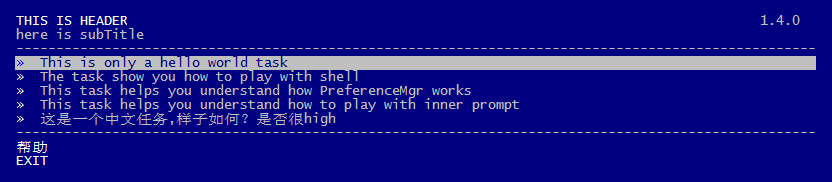
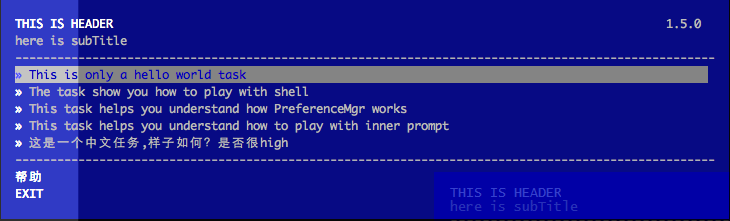
upgrade dependencies with the latest version and do refactor along with the dependency

diff --git a/index.js b/index.js
@@ -74,6 +74,7 @@ var createMenu = function(opts) {
             menu.reset();
             menu.close();
 
+
             if (name === options.exitTxt) {
                 return emitter.emit('exit');
             }
@@ -88,6 +89,7 @@ var createMenu = function(opts) {
 
             runner.on('finish', function() {
                 logger.success('finish: ', task.name);
+                process.stdin.end();
             });
 
             runner.on('error', function(err) {
@@ -97,7 +99,13 @@ var createMenu = function(opts) {
 
         });
 
-        menu.createStream().pipe(process.stdout);
+        process.stdin.pipe(menu.createStream()).pipe(process.stdout);
+        process.stdin.setRawMode(true);
+
+        menu.on('close', function() {
+            process.stdin.setRawMode(false);
+            // process.stdin.end();
+        });
     }).error(function(err) {
         logger.error('failed: ', err);
     });

diff --git a/examples/tasks/prompt/Task.js b/examples/tasks/prompt/Task.js
@@ -1,14 +1,13 @@
+'use strict';
+
 var TaskRunner = require('../../../index');
 var logger = TaskRunner.logger;
-
-
 
 var Task = TaskRunner.Base.extend({
     id: 'prompttest',
     name: 'This task helps you understand how to play with inner prompt',
     position: 4,
     run: function(cons) {
-
         this.prompt([{
             type: 'input',
             name: 'name',
@@ -16,10 +15,15 @@ var Task = TaskRunner.Base.extend({
             validate: function(pass) {
                 return !!pass;
             }
+        }, {
+            type: 'input',
+            name: 'project',
+            message: 'your project',
+            default: 'project'
         }], function(res) {
-                logger.info('Your name is:', res.name);
-                cons();
-            });
+            logger.info('Your input is:', res);
+            cons();
+        });
     }
 });
 

diff --git a/libs/Shell.js b/libs/Shell.js
@@ -13,10 +13,9 @@ var Executor = function(cmds, variables) {
     if (variables) {
         this.commands = [];
         _.each(cmds, function(cmd) {
-            this.push(_.template(cmd, variables));
+            this.push(_.template(cmd)(variables));
         }, this.commands);
     }
-
     this._run = function(defer) {
         var _this = this;
         if (!this.hasNext()) {
@@ -48,12 +47,6 @@ Executor.prototype.next = function() {
         if (error) {
             d.reject(error);
             return;
-        }
-
-        if (!stdout) {
-            console.info(cmd);
-        } else {
-            console.log(stdout);
         }
         d.resolve();
     });

diff --git a/examples/tasks/shellexample/Task.js b/examples/tasks/shellexample/Task.js
@@ -1,18 +1,18 @@
+'use strict';
 var TaskRunner = require('../../../index');
-var logger = TaskRunner.logger;
 var Shell = TaskRunner.shell;
 
 var Task = TaskRunner.Base.extend({
     id: 'shellexample',
     name: 'The task show you how to play with shell',
     position: 2,
-    run: function (cons) {
+    run: function(cons) {
         //display all the .js files under current working directory
         new Shell(['ls -l *<%= suffix %>'], {
             suffix: '.js'
-        }).start().then(function () {
+        }).start().then(function() {
             cons();
-        }, function (err) {
+        }, function(err) {
             cons(err);
         });
     }

diff --git a/examples/tasks/sayhello/Task.js b/examples/tasks/sayhello/Task.js
@@ -7,12 +7,9 @@ var Task = TaskRunner.Base.extend({
     id: 'helloTask',
     name: 'This is only a hello world task',
     position: 1,
-    run: function (cons) {
-        //Task has to be asynchronous, otherwise, you won't receive the finish/error event
-        process.nextTick(function () {
-            logger.warn('hello, world!!');
-            cons();
-        });
+    run: function(cons) {
+        logger.warn('hello, world!!');
+        cons();
     }
 });
 

diff --git a/examples/tasks/preftest/Task.js b/examples/tasks/preftest/Task.js
@@ -7,12 +7,13 @@ var Task = TaskRunner.Base.extend({
     id: 'preftest',
     name: 'This task helps you understand how PreferenceMgr works',
     position: 3,
-    run: function (cons) {
+    run: function(cons) {
         logger.warn('[' + this.get('name') + ']');
         this.put({
             what: 'nanfeng'
         });
         logger.info('[' + this.get('what') + ']');
+        cons();
     }
 });
 

diff --git a/libs/TaskManager.js b/libs/TaskManager.js
@@ -87,7 +87,11 @@ TaskManager.prototype.run = function(taskId) {
         throw new Error('Task [' + taskId + '] is not valid.');
     }
 
-    task.run(finishHandler.bind(this));
+    var self = this;
+
+    setTimeout(function() {
+        task.run(finishHandler.bind(self));
+    }, 100);
 
     return this.emitter;
 };

diff --git a/examples/tasks/chinese/Task.js b/examples/tasks/chinese/Task.js
@@ -9,6 +9,7 @@ var Task = TaskRunner.Base.extend({
     position: 5,
     run: function(cons) {
         logger.warn('您好，世界');
+        cons();
     }
 });
 
